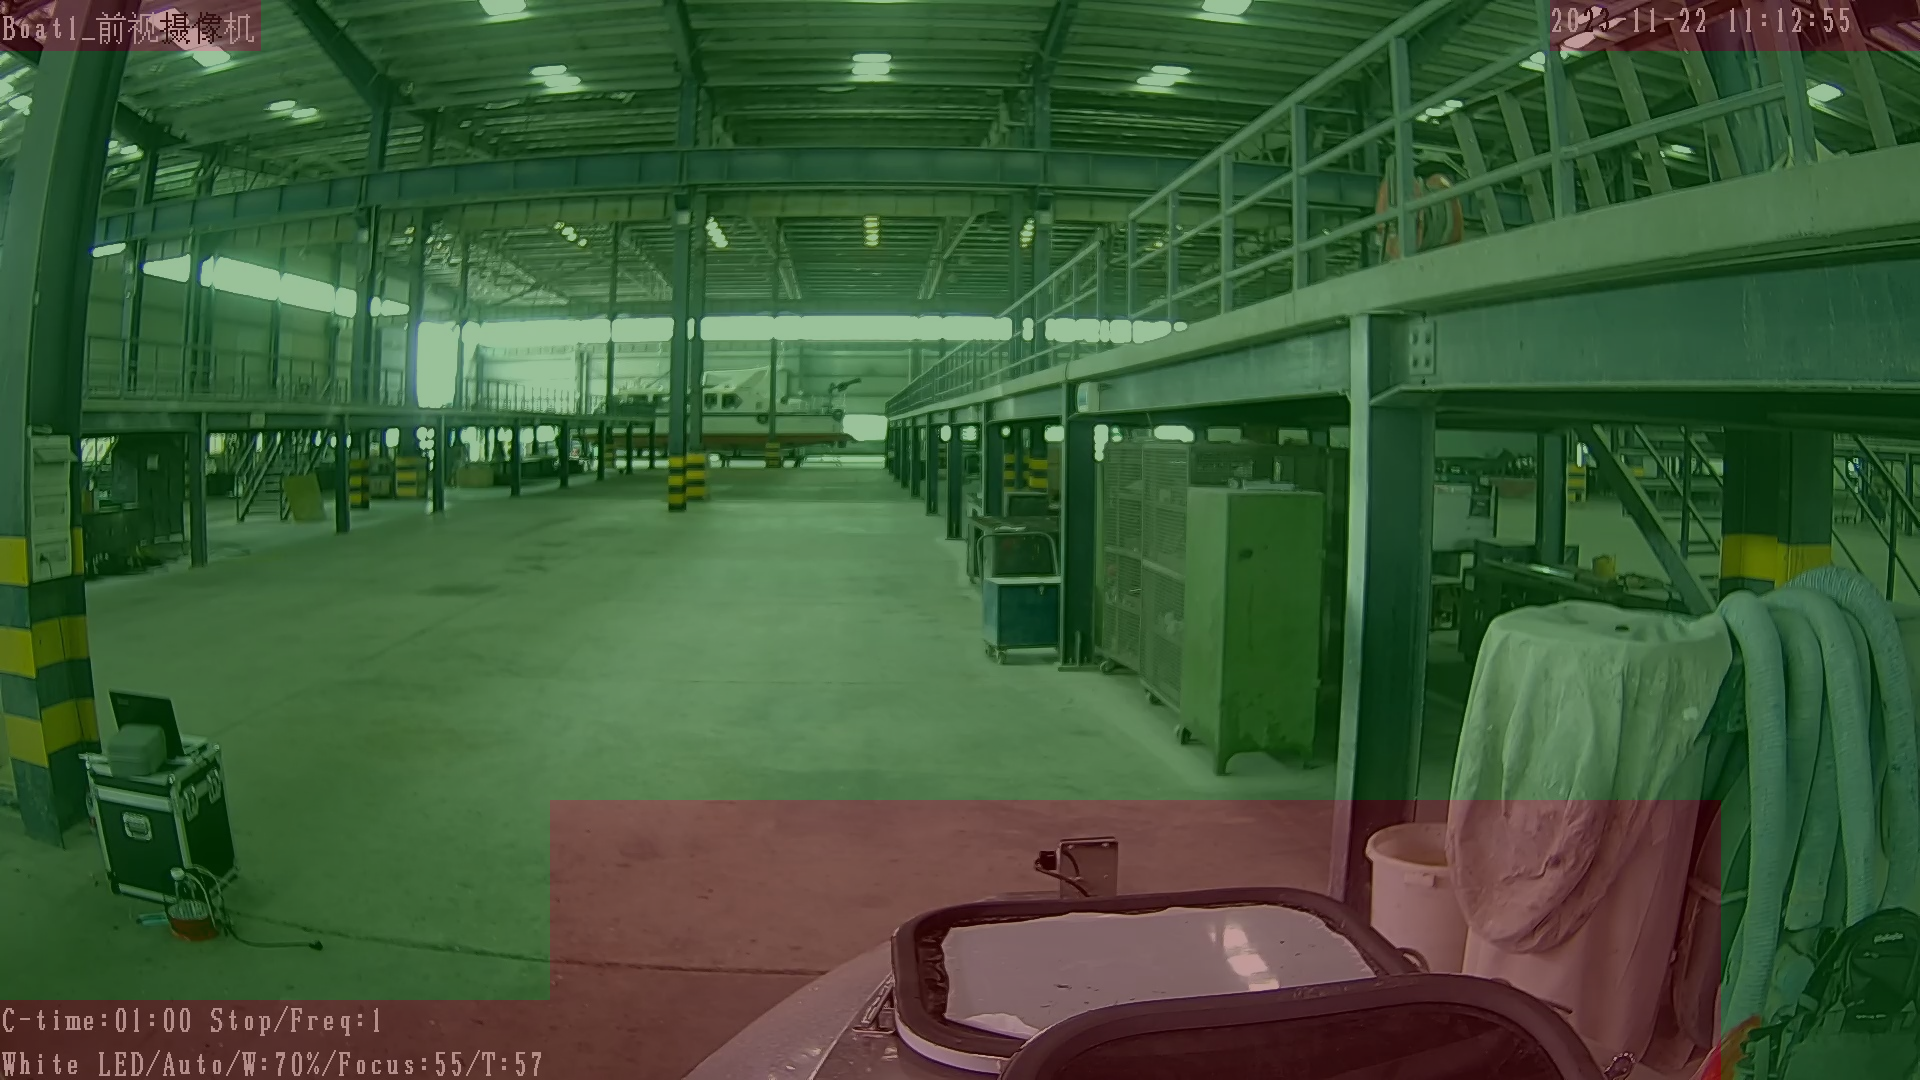
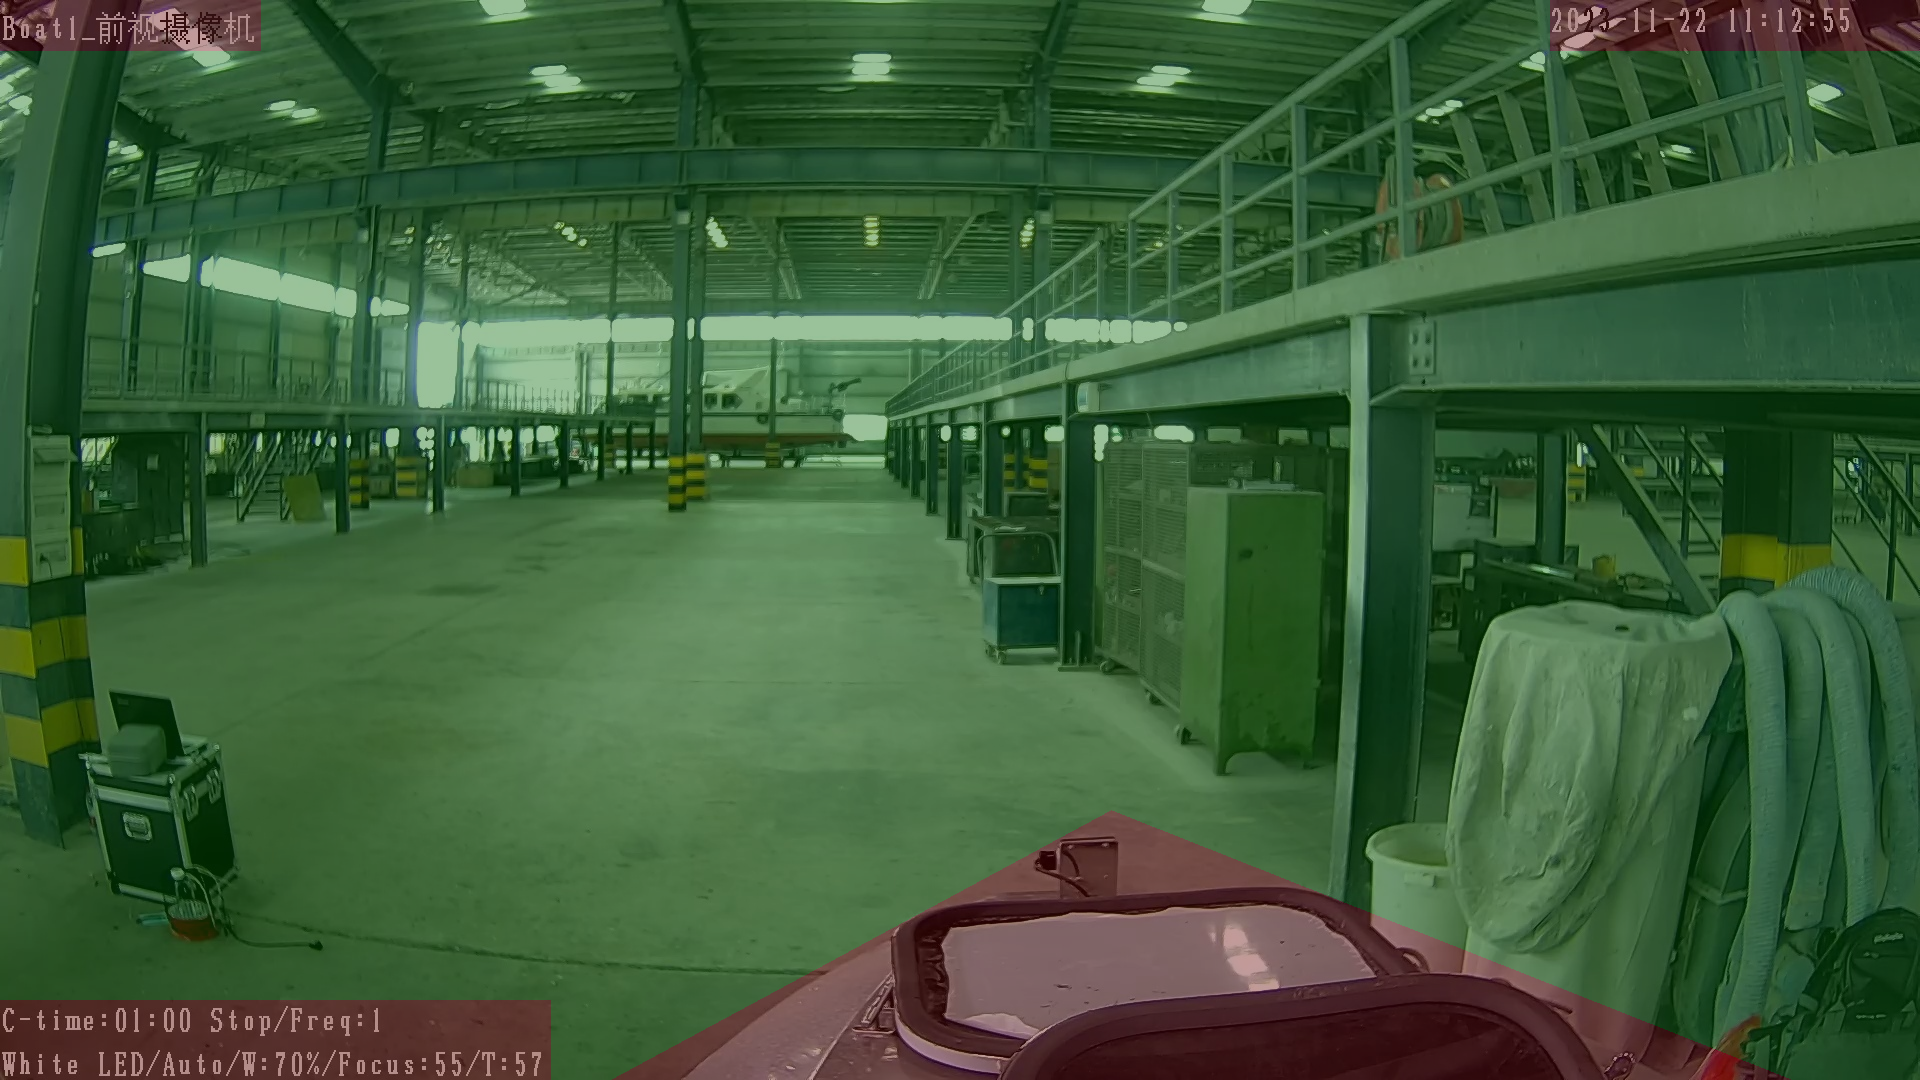
可以绘制三角形

Changed region(s): [[0.2812, 0.7333, 0.9375, 1.0]]

diff --git a/create_mask.py b/create_mask.py
@@ -5,26 +5,21 @@ def create_image(width, height):
     image = Image.new("RGB", (width, height), (255, 255, 255))
     return image
 
-def draw_black_rectangles(image, black_rectangles):
+def draw_black_shapes(image, black_shapes):
     draw = ImageDraw.Draw(image)
 
-    for rect in black_rectangles:
-        # rect是一个矩形，以左上角和右下角的坐标表示
-        draw.rectangle(rect, fill=(0, 0, 0))
+    for shape in black_shapes:
+        if shape['type'] == 'rectangle':
+            draw.rectangle(shape['coordinates'], fill=(0, 0, 0))
+        elif shape['type'] == 'triangle':
+            draw.polygon(shape['coordinates'], fill=(0, 0, 0))
 
-    del draw  # 释放画笔
+    del draw
 
 def save_image(image, filename):
     image.save(filename)
 
 def merge_images(bw_image, rgb_image, output_path):
-    # 打开黑白图
-    # bw_image = Image.open(bw_image_path).convert("L")  # 转换为灰度图
-
-    # 打开RGB图
-    # rgb_image = Image.open(rgb_image_path)
-
-    # 确保两张图像具有相同的大小
     if bw_image.size != rgb_image.size:
         raise ValueError("Image sizes do not match.")
 
@@ -40,29 +35,28 @@ def merge_images(bw_image, rgb_image, output_path):
     merged_image = Image.alpha_composite(rgb_image.convert("RGBA"), bw_image_rgba)
 
     # 保存合并后的图像
-    merged_image.save(output_path, "PNG")   
+    merged_image.save(output_path, "PNG")
 
 if __name__ == "__main__":
     width, height = 1920, 1080
 
-    # 创建一张白色图片
+    #初始mask，全白
     mask = create_image(width, height)
 
-    # 定义几个矩形区域，以左上角和右下角的坐标表示
-    black_rectangles = [
-        [0, 0, 260, 50],
-        [1550, 0, 1920,50],
-        [0, 1000, 550, 1080],
-        [550,800,1720,1080]
-        # 添加更多的矩形区域...
+    # 定义绘制字典
+    black_shapes = [
+        {'type': 'rectangle', 'coordinates': [0, 0, 260, 50]},
+        {'type': 'rectangle', 'coordinates': [1550, 0, 1920, 50]},
+        {'type': 'rectangle', 'coordinates': [0, 1000, 550, 1080]},
+        # {'type': 'rectangle', 'coordinates': [550, 800, 1720, 1080]},
+        {'type': 'triangle', 'coordinates': [(1111, 810), (610, 1080), (1793, 1080)]},
+        # Add more shapes...
     ]
-
-    # 在图片上绘制黑色矩形
-    draw_black_rectangles(mask, black_rectangles)
+    # 绘制
+    draw_black_shapes(mask, black_shapes)
 
     img = Image.open('q.jpg')
 
     merge_images(mask, img, 'merged.png')
 
-    # 保存图片
-    save_image(mask, "mask.png")
+    save_image(mask, "mask.jpg")
